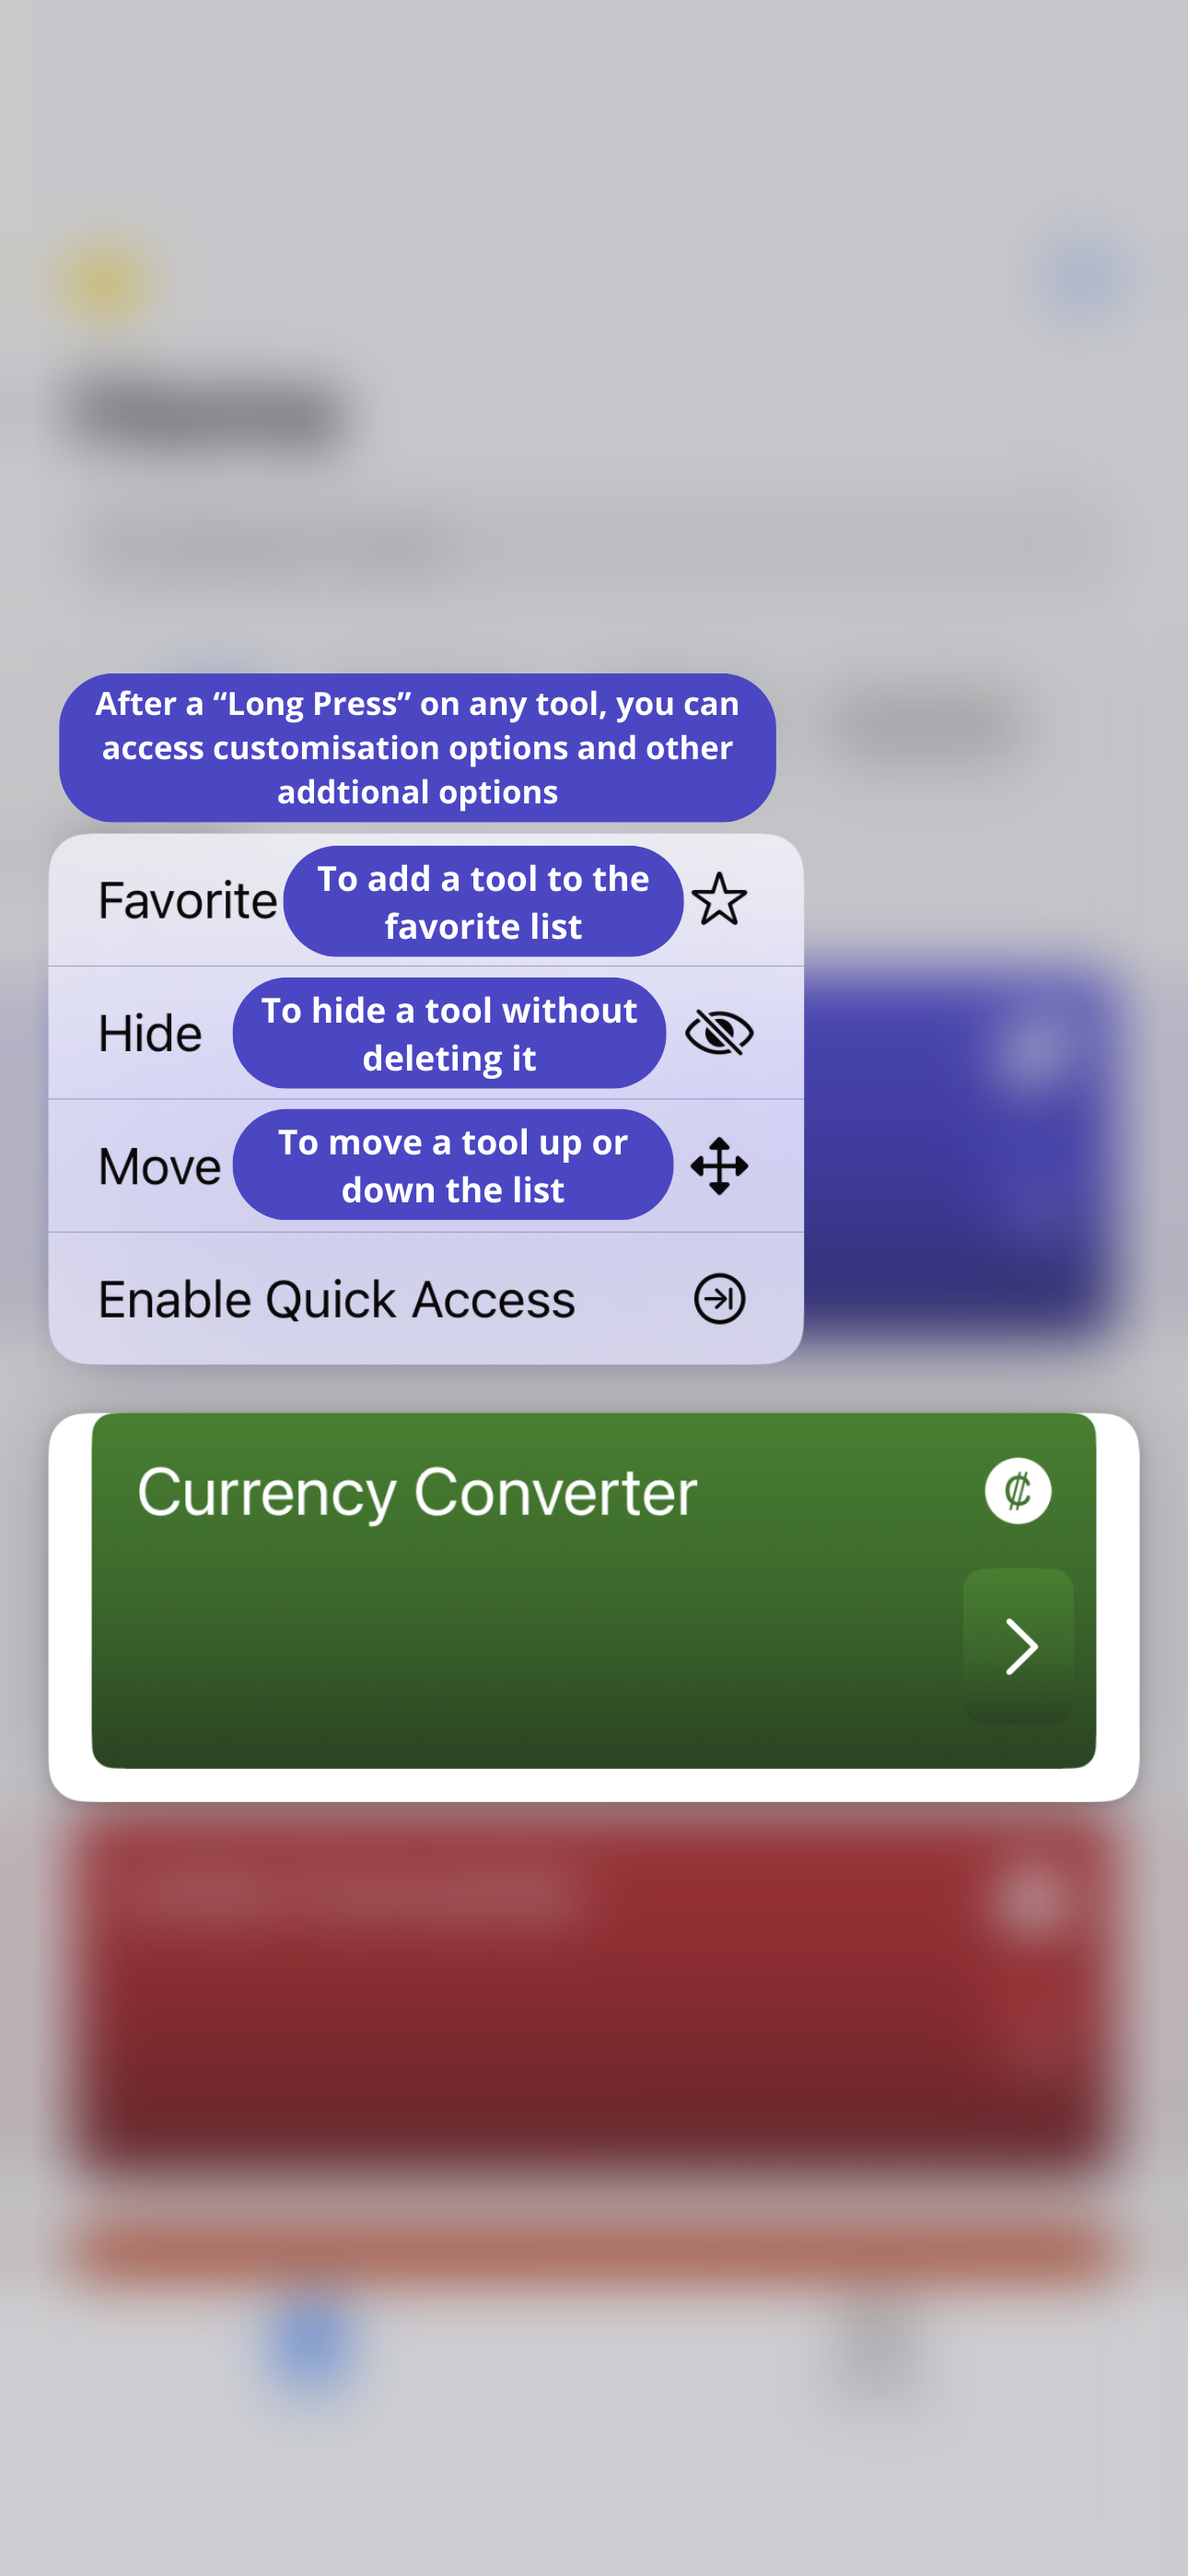
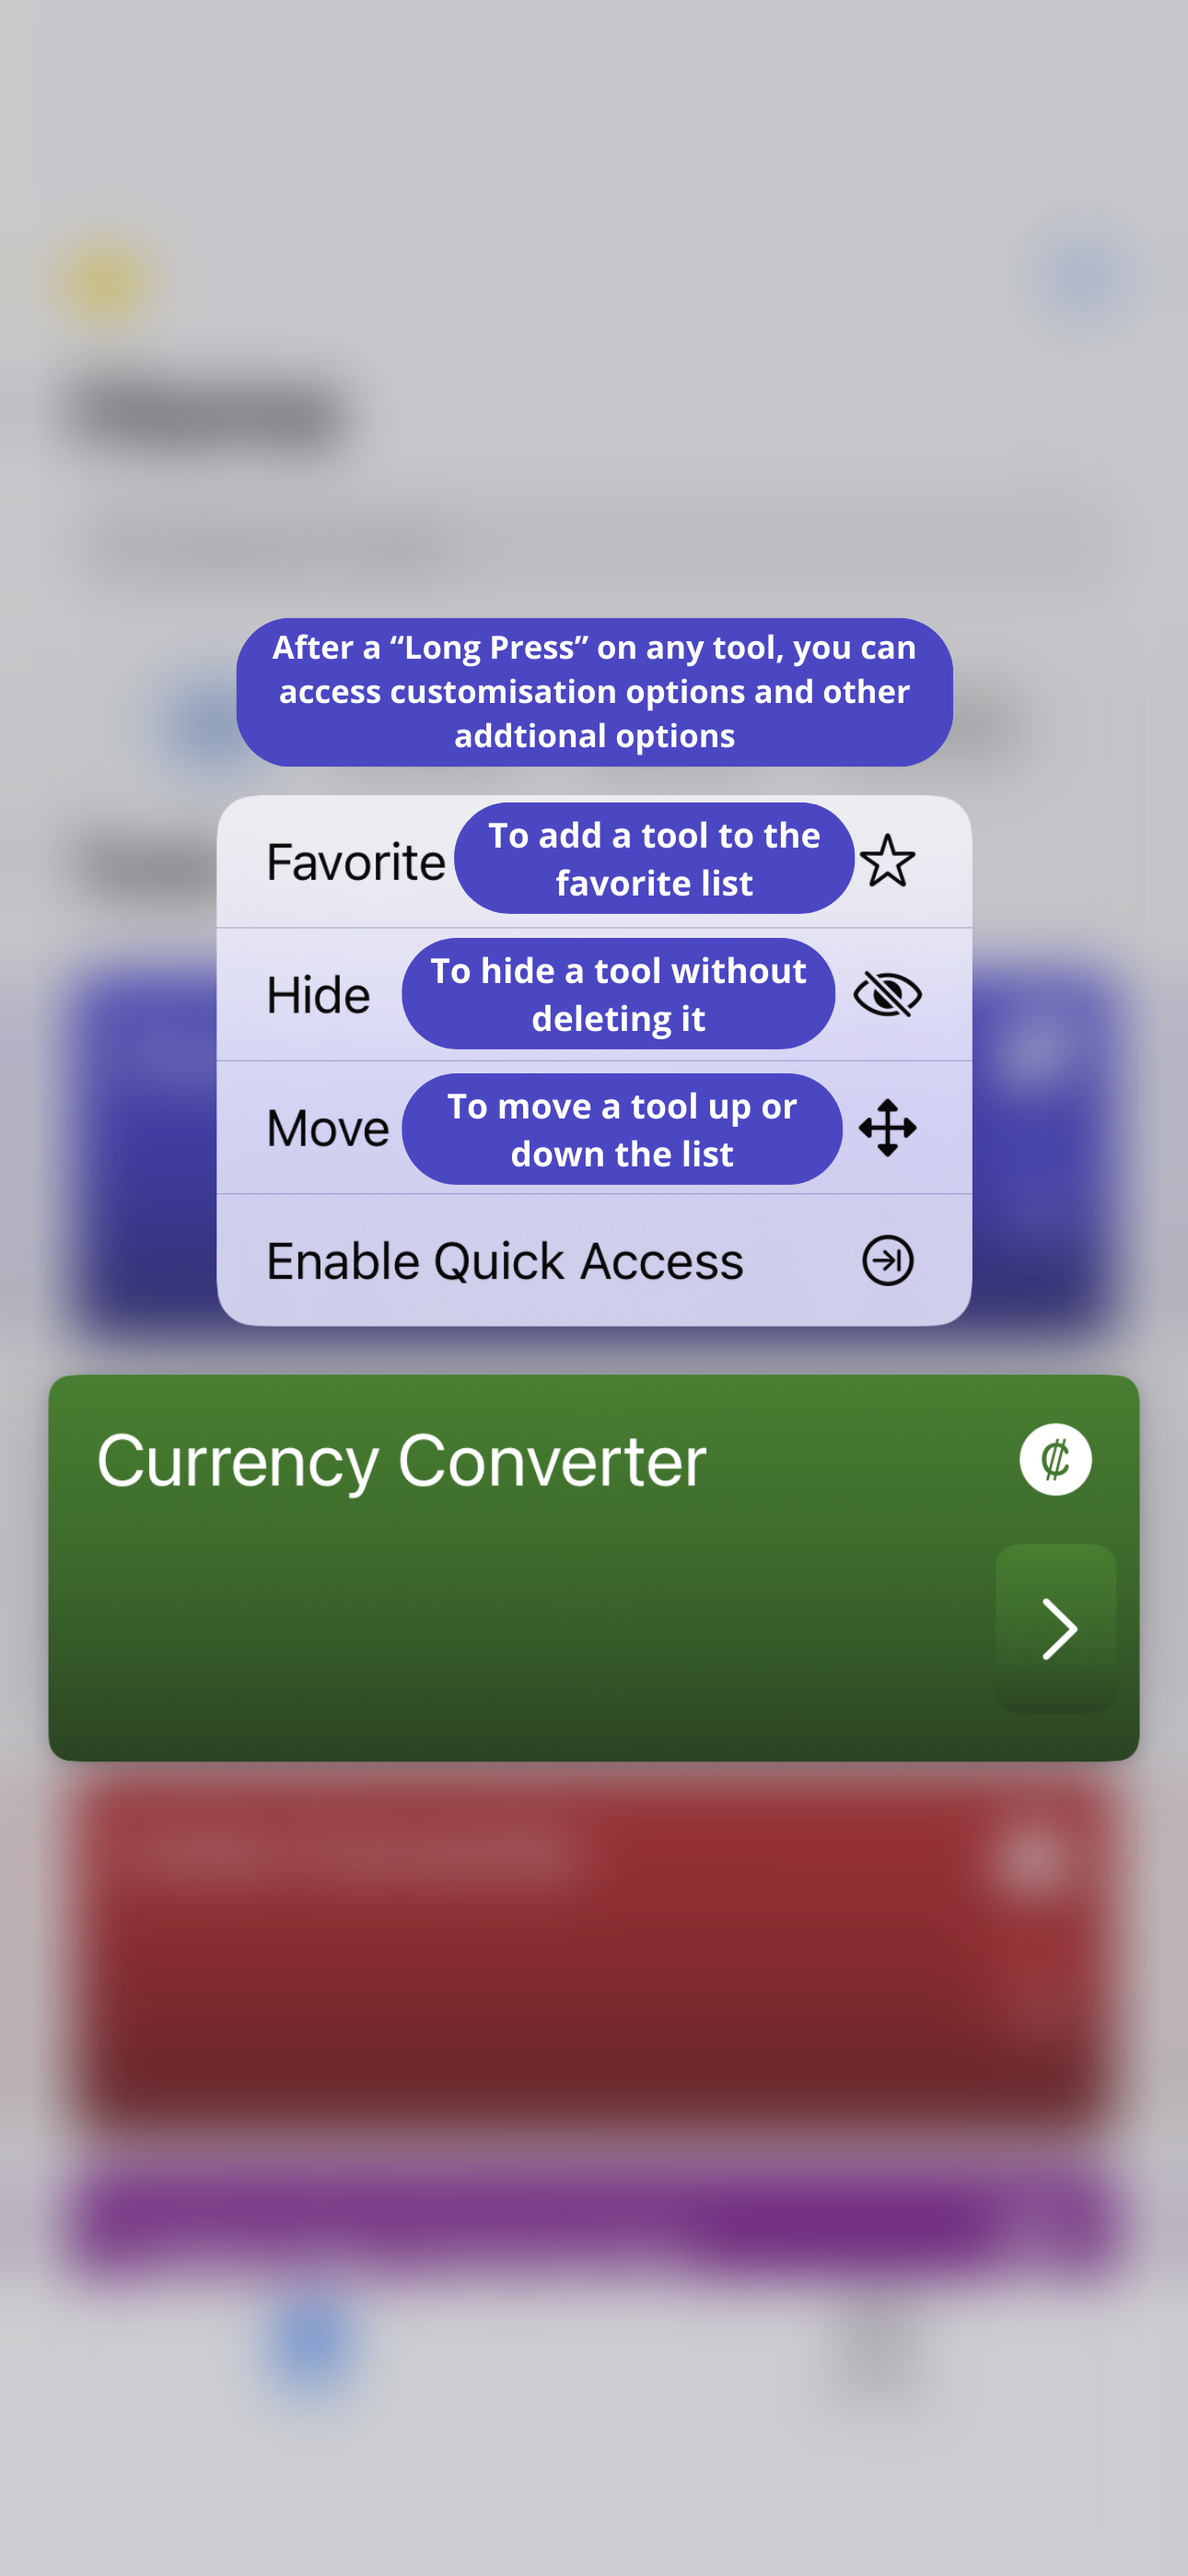
general fixes

Changed region(s): [[0.031, 0.2178, 0.9612, 0.7779], [0.031, 0.809, 0.9612, 0.9024]]

diff --git a/src/screens/Home/index.js b/src/screens/Home/index.js
@@ -233,27 +233,30 @@ function Home(props) {
     return (
       <ScaleDecorator>
         {Platform.isPad ? (
-          <View>
-            <Card
-              isEditingFavorite={props.isEditingFavorite}
-              handleFavorite={handleFavorite}
-              theme={props.theme}
-              lang={lang}
-              tool={tool}
-              key={tool.id}
-              changeVis={changeVis}
-              navigation={navigation}
-              isEditing={props.isEditing}
-              drag={drag}
-              isActive={isActive}
-              t={t}
-              text={text}
-              moving={props.moving}
-              handleDelete={handleDelete}
-            />
-          </View>
+          <Card
+            isEditingFavorite={props.isEditingFavorite}
+            handleFavorite={handleFavorite}
+            theme={props.theme}
+            lang={lang}
+            tool={tool}
+            key={tool.id}
+            changeVis={changeVis}
+            navigation={navigation}
+            isEditing={props.isEditing}
+            drag={drag}
+            isActive={isActive}
+            t={t}
+            text={text}
+            moving={props.moving}
+            handleDelete={handleDelete}
+          />
         ) : (
           <ContextMenu
+            style={{
+              width: "92%",
+              alignSelf: "center",
+              marginBottom: 5,
+            }}
             dropdownMenuMode={false}
             actions={
               tool.link === "CreatedTool"
@@ -456,25 +459,33 @@ function Home(props) {
   const renderItemDrag = ({ tool, getIndex, drag, isActive }) => {
     return (
       <ScaleDecorator>
-        <Card
-          index={getIndex()}
-          searchTextLength={props.searchText.length}
-          isEditingFavorite={props.isEditingFavorite}
-          handleFavorite={handleFavorite}
-          theme={props.theme}
-          lang={lang}
-          tool={tool}
-          key={tool.id}
-          changeVis={changeVis}
-          navigation={navigation}
-          isEditing={props.isEditing}
-          drag={drag}
-          isActive={isActive}
-          t={t}
-          text={text}
-          moving={props.moving}
-          handleDelete={handleDelete}
-        />
+        <View
+          style={{
+            width: "92%",
+            alignSelf: "center",
+            marginBottom: 5,
+          }}
+        >
+          <Card
+            index={getIndex()}
+            searchTextLength={props.searchText.length}
+            isEditingFavorite={props.isEditingFavorite}
+            handleFavorite={handleFavorite}
+            theme={props.theme}
+            lang={lang}
+            tool={tool}
+            key={tool.id}
+            changeVis={changeVis}
+            navigation={navigation}
+            isEditing={props.isEditing}
+            drag={drag}
+            isActive={isActive}
+            t={t}
+            text={text}
+            moving={props.moving}
+            handleDelete={handleDelete}
+          />
+        </View>
       </ScaleDecorator>
     );
   };
@@ -958,22 +969,30 @@ function Home(props) {
                       : tool.isHidden === true
                   )
                   .map((tool, index) => (
-                    <Card
-                      index={index}
-                      searchTextLength={props.searchText.length}
-                      isEditingFavorite={props.isEditingFavorite}
-                      handleFavorite={handleFavorite}
-                      theme={props.theme}
-                      lang={lang}
-                      tool={tool}
-                      key={tool.id}
-                      changeVis={changeVis}
-                      navigation={navigation}
-                      isEditing={props.isEditing}
-                      t={t}
-                      text={text}
-                      handleDelete={handleDelete}
-                    />
+                    <View
+                      style={{
+                        width: "92%",
+                        alignSelf: "center",
+                        marginBottom: 20,
+                      }}
+                    >
+                      <Card
+                        index={index}
+                        searchTextLength={props.searchText.length}
+                        isEditingFavorite={props.isEditingFavorite}
+                        handleFavorite={handleFavorite}
+                        theme={props.theme}
+                        lang={lang}
+                        tool={tool}
+                        key={tool.id}
+                        changeVis={changeVis}
+                        navigation={navigation}
+                        isEditing={props.isEditing}
+                        t={t}
+                        text={text}
+                        handleDelete={handleDelete}
+                      />
+                    </View>
                   ))
               ) : (
                 <Text

diff --git a/src/components/Home/Card/index.js b/src/components/Home/Card/index.js
@@ -59,9 +59,19 @@ const Card = ({
       }}
       style={{
         marginTop: tool.isHidden ? 0 : isEditing ? (isActive ? -10 : 15) : 5,
+        borderRadius: 8,
       }}
     >
       <MotiView
+        style={
+          Platform.isPad
+            ? {
+                width: isEditing ? "%100" : "92%",
+                alignSelf: "center",
+                marginBottom: 5,
+              }
+            : {}
+        }
         animate={{
           opacity: [0, 0.1, 0.2, 0.3, 0.4, 0.5, 0.6, 0.7, 0.8, 0.9, 1],
         }}
@@ -78,7 +88,7 @@ const Card = ({
                 height: 0,
                 position: "relative",
                 top: -10,
-                left: Platform.isPad ? 25 : 5,
+                left: -8,
                 zIndex: 1,
               }}
             >
@@ -90,6 +100,7 @@ const Card = ({
                   backgroundColor: theme === "dark" ? "black" : "#888888",
                 }}
                 onPress={() => {
+                  Haptics.impactAsync(Haptics.ImpactFeedbackStyle.Light);
                   changeVis(tool.id);
                 }}
               >
@@ -119,7 +130,7 @@ const Card = ({
                 height: 0,
                 position: "relative",
                 top: -10,
-                left: Platform.isPad ? 25 : 5,
+                left: -8,
                 zIndex: 1,
               }}
             />
@@ -130,12 +141,7 @@ const Card = ({
                 height: 0,
                 position: "relative",
                 top: -10,
-                left: Platform.isPad
-                  ? Dimensions.get("window").width >
-                    Dimensions.get("window").height
-                    ? 35
-                    : 25
-                  : 5,
+                left: -8,
                 zIndex: 1,
               }}
               animate={{
@@ -154,6 +160,7 @@ const Card = ({
                   backgroundColor: "black",
                 }}
                 onPress={() => {
+                  Haptics.impactAsync(Haptics.ImpactFeedbackStyle.Light);
                   tool.link === "CreatedTool"
                     ? Alert.alert(
                         t(text("deleteOrHide")),
@@ -195,15 +202,11 @@ const Card = ({
           key={tool.id}
           colors={[...tool.colors]}
           style={{
-            margin: 5,
-            marginTop: 0,
-            marginStart: "4%",
             opacity: isEditing ? (tool.isHidden ? 0.2 : 0.7) : 1,
-            borderWidth: isEditing ? 0 : 0,
             borderColor: theme === "dark" ? "gray" : "black",
-            width: "92%",
+            width: "100%",
           }}
-          className="mb-3 h-32 rounded-lg"
+          className="h-32 rounded-lg"
         >
           <TouchableOpacity
             key={tool.id}

diff --git a/src/screens/Home/CalendarCon/index.js b/src/screens/Home/CalendarCon/index.js
@@ -879,7 +879,7 @@ function CalendarCon({ theme }) {
                       colors={[isDark("#DBEAFE", "#283987")]}
                     />
                   </TouchableOpacity>
-                  {"  "}
+                  {lang === "ar" ? "    " : "  "}
                 </Text>
                 <Text
                   className={
